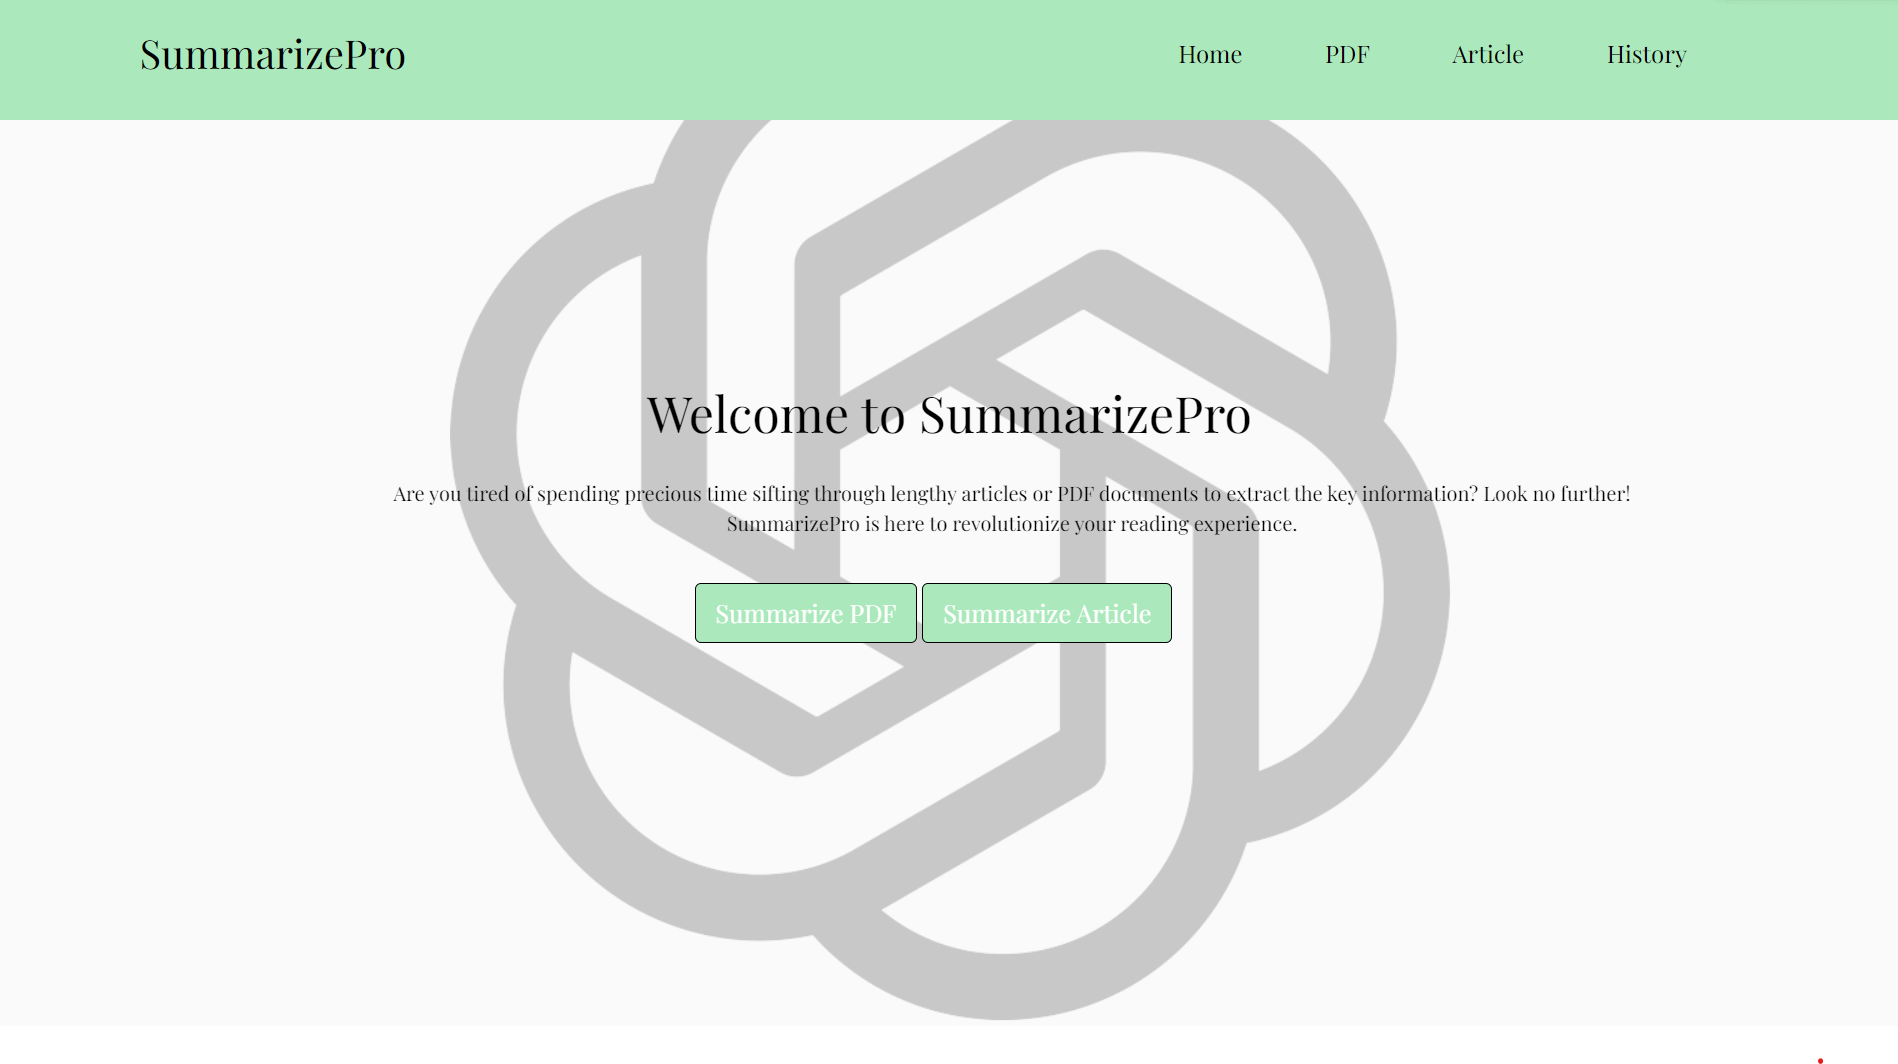
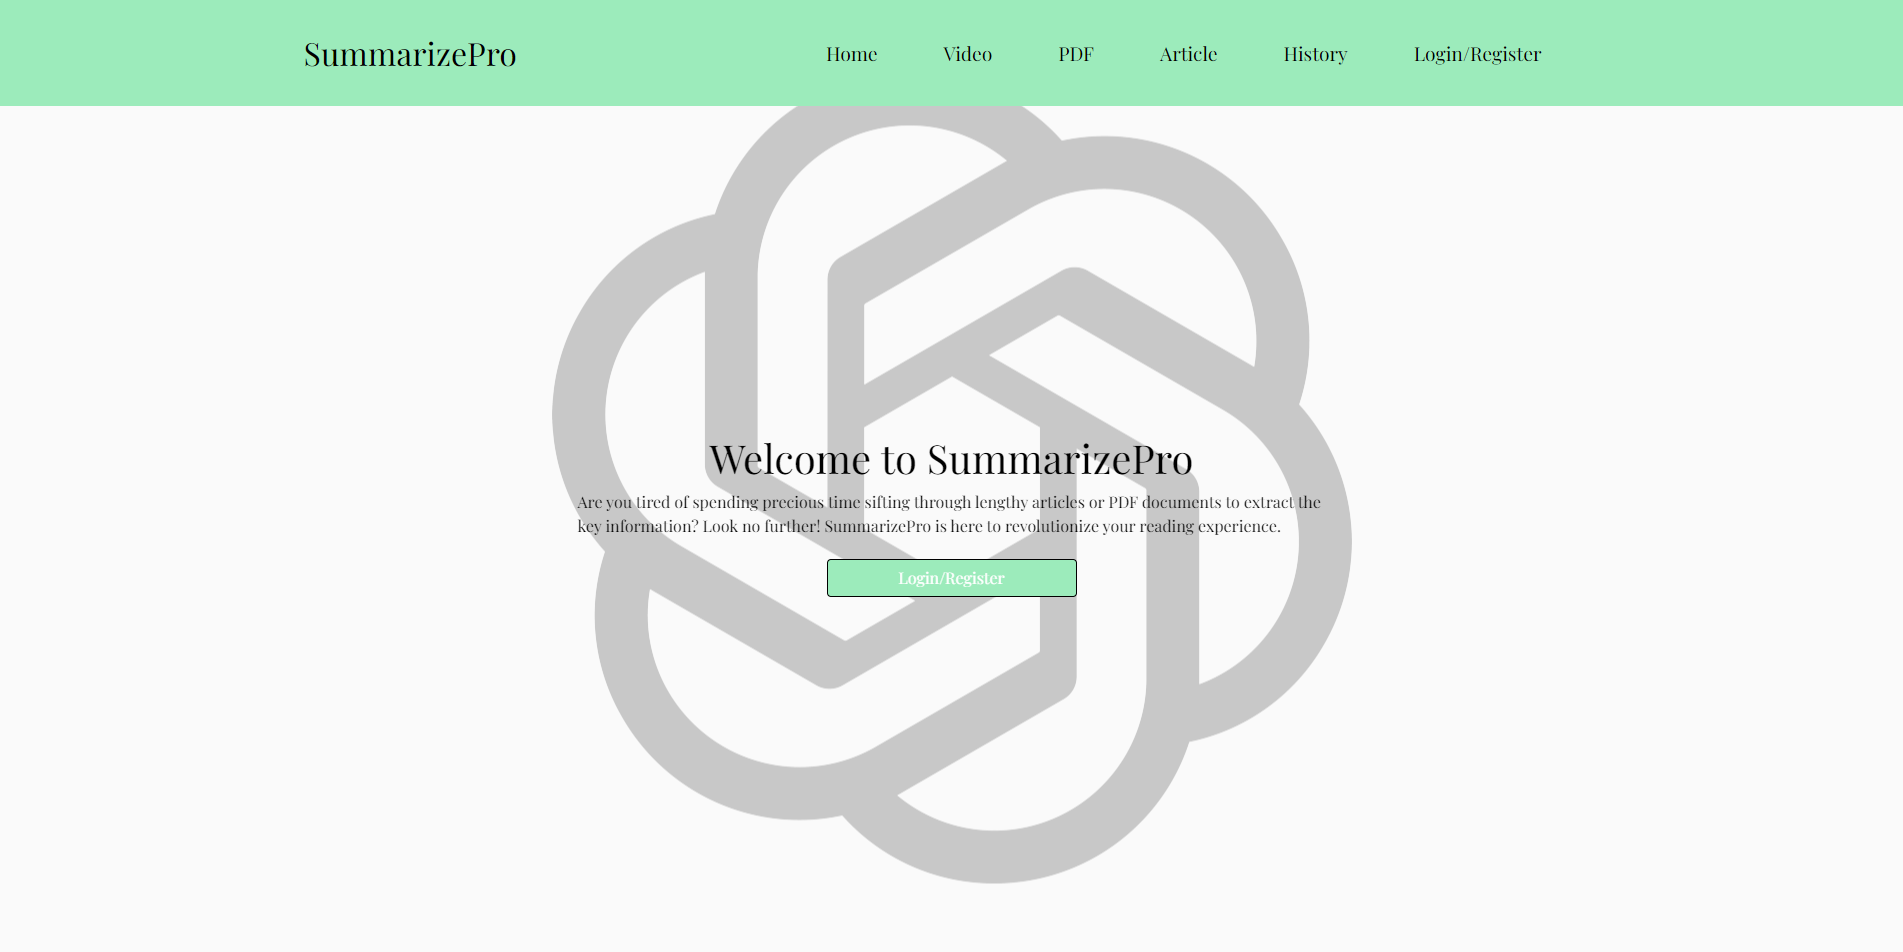
Updated picture for SPSS and added live link

diff --git a/index.html b/index.html
@@ -153,10 +153,10 @@ Have fun creating your portfolio on this template!!! -->
             </p>
             <span class="about-wrapper__cta">
               <a
-                href="assets\Dylan_Alfonso_Resume.pdf"
+                href="https://github.com/DylanAlfonso13"
                 class="cta-btn cta-btn--resume"
                 target="_blank"
-                >View Resume</a
+                >View GitHub</a
               >
             </span>
           </div>
@@ -185,11 +185,11 @@ Have fun creating your portfolio on this template!!! -->
               </p>
               <div class="project-wrapper__text-btns">
                 <a
-                  href=""
+                  href="http://summarizepro.pythonanywhere.com/"
                   target="_blank"
                   rel="noopener noreferrer"
                   class="cta-btn cta-btn--hero cta-btn--projects"
-                  >Demo Soon</a
+                  >See Live</a
                 >
                 <a
                   href="https://github.com/DylanAlfonso13/SummarizePro"
@@ -201,7 +201,7 @@ Have fun creating your portfolio on this template!!! -->
             </div>
 
             <div class="project-wrapper__image">
-              <a href="" target="_blank" rel="noopener noreferrer">
+              <a href="http://summarizepro.pythonanywhere.com/" target="_blank" rel="noopener noreferrer">
                 <div class="thumbnail rounded">
                   <img
                     src="./assets/SPSS.png"
